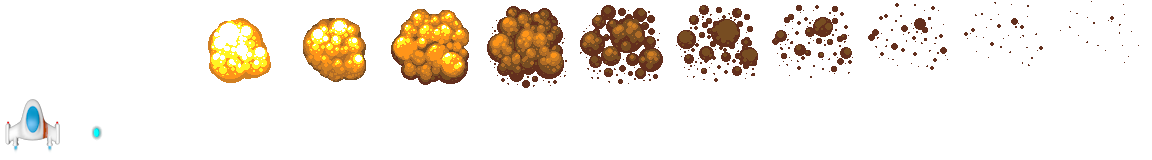
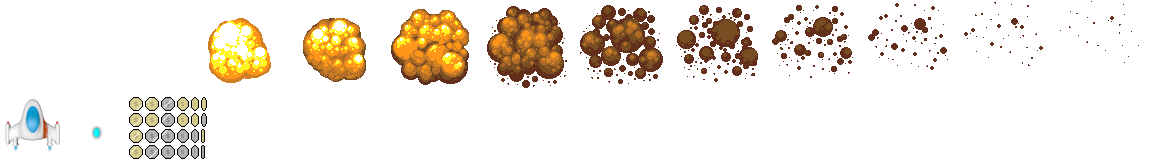
added coins in gameplay and changed HeavyTank fire rate to 3 seconds

Changed region(s): [[0.0938, 0.5938, 0.1875, 1.0]]

diff --git a/SpaceGame/Managers/SpriteFactory.cs b/SpaceGame/Managers/SpriteFactory.cs
@@ -10,6 +10,8 @@ public class SpriteFactory
     private TextureRegion _shipRegion;
     private TextureRegion _bulletRegion;
     private Animation _explosionAnimation;
+    private Animation _goldCoinAnimation;
+    private Animation _silverCoinAnimation;
 
     private Dictionary<EnemyType, TextureRegion> _enemyRegions;
 
@@ -20,6 +22,8 @@ public class SpriteFactory
         _shipRegion = _atlas.GetRegion("ship");
         _bulletRegion = _atlas.GetRegion("bullet");
         _explosionAnimation = _atlas.GetAnimation("explosion-animation");
+        _goldCoinAnimation = _atlas.GetAnimation("gold-animation");
+        _silverCoinAnimation = _atlas.GetAnimation("silver-animation");
 
         _enemyRegions = new Dictionary<EnemyType, TextureRegion>
         {
@@ -32,6 +36,8 @@ public class SpriteFactory
     }
 
     public Animation ExplosionAnimation => _explosionAnimation;
+    public Animation GoldAnimation => _goldCoinAnimation;
+    public Animation SilverAnimation => _silverCoinAnimation;
 
     public Sprite CreateShipSprite() 
         => CenterOrigin(new Sprite(_shipRegion));
@@ -48,6 +54,12 @@ public class SpriteFactory
 
     public AnimatedSprite CreateExplosionSprite() 
         => CenterOrigin(new AnimatedSprite(_explosionAnimation));
+    
+    public AnimatedSprite CreateGoldCoinSprite()
+        => CenterOrigin(new AnimatedSprite(_goldCoinAnimation));
+
+    public AnimatedSprite CreateSilverCoinSprite()
+        => CenterOrigin(new AnimatedSprite(_silverCoinAnimation));
     
     private static Sprite CenterOrigin(Sprite x)
     {

diff --git a/SpaceGame/Managers/GameManager.cs b/SpaceGame/Managers/GameManager.cs
@@ -169,6 +169,13 @@ public class GameManager
     private void SpawnCoin(Vector2 position, CoinType type)
     {
         // TODO: needs coin sprite to be added
+        Coin c;
+        if (type == CoinType.Silver)
+            c = new(_spriteFactory.CreateSilverCoinSprite(), position, CoinType.Silver, null);
+        else
+            c = new(_spriteFactory.CreateGoldCoinSprite(), position, CoinType.Gold, null);
+
+        _activeCoins.Add(c);
     }
 
     private void CheckPickUps() // coins and perhaps powerups in future
@@ -188,7 +195,8 @@ public class GameManager
         _ship.Score += 100 * waveNumber;
         _ship.Coins += 5 * waveNumber;
 
-        _waveManager.StartWave(_waveManager.CurrentWave + 1);
+        if (_waveManager.CurrentWave < 10)
+            _waveManager.StartWave(_waveManager.CurrentWave + 1);
     }
 
     private static bool IsCompletelyOut(Circle x, Rectangle screenBounds)

diff --git a/SpaceGame/Enemies/HeavyTankEnemy.cs b/SpaceGame/Enemies/HeavyTankEnemy.cs
@@ -18,7 +18,7 @@ public class HeavyTankEnemy : Enemy
     private const int BULLET_SPEED = 220;
     private const int BULLET_DAMAGE = 10;
 
-    private TimeSpan _fireRate = TimeSpan.FromMilliseconds(1000);
+    private TimeSpan _fireRate = TimeSpan.FromMilliseconds(3000);
     private TimeSpan _timeSinceLastShot = TimeSpan.Zero;
 
     public HeavyTankEnemy(Sprite sprite, Vector2 pos)